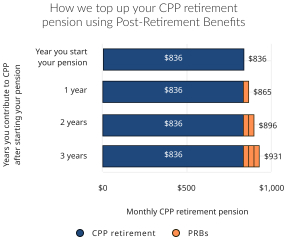
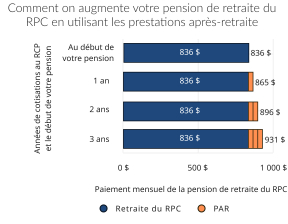
french translation and some structural changes

diff --git a/frontend/src/pages/learn/main-sources-of-retirement-income.tsx b/frontend/src/pages/learn/main-sources-of-retirement-income.tsx
@@ -31,22 +31,22 @@ const MainSourcesOfRetirementIncome: FC = () => {
   const learnMoreLinks = useMemo(
     () => [
       {
-        href: '/learn/deciding-when-to-start-your-public-pensions',
+        href: t('learn-more.when-to-start.href'),
         primary: t('learn-more.when-to-start.header'),
         secondary: t('learn-more.when-to-start.description'),
       },
       {
-        href: '/learn/going-from-work-to-retirement',
+        href: t('learn-more.going-from-work-to-retirement.href'),
         primary: t('learn-more.going-from-work-to-retirement.header'),
         secondary: t('learn-more.going-from-work-to-retirement.description'),
       },
       {
-        href: 'https://www.canada.ca/en/services/taxes/savings-and-pension-plans.html',
+        href: t('learn-more.savings-and-pension.href'),
         primary: t('learn-more.savings-and-pension.header'),
         secondary: t('learn-more.savings-and-pension.description'),
       },
       {
-        href: 'https://www.canada.ca/en/services/benefits/publicpensions/cpp/retirement-income-calculator.html',
+        href: t('learn-more.income-calculator.href'),
         primary: t('learn-more.income-calculator.header'),
         secondary: t('learn-more.income-calculator.description'),
       },
@@ -390,16 +390,12 @@ const MainSourcesOfRetirementIncome: FC = () => {
         <ul className="mb-5 list-disc space-y-2 pl-7">
           {[
             {
-              href: t('canada-pension-plan-program.cpp-post-retirement-benefit.helpful-resources.overview.link'),
-              primary: t('canada-pension-plan-program.cpp-post-retirement-benefit.helpful-resources.overview.content'),
-            },
-            {
               href: t('canada-pension-plan-program.cpp-post-retirement-benefit.helpful-resources.cpp.link'),
               primary: t('canada-pension-plan-program.cpp-post-retirement-benefit.helpful-resources.cpp.content'),
             },
             {
-              href: t('canada-pension-plan-program.cpp-post-retirement-benefit.helpful-resources.monthly.link'),
-              primary: t('canada-pension-plan-program.cpp-post-retirement-benefit.helpful-resources.monthly.content'),
+              href: t('canada-pension-plan-program.cpp-post-retirement-benefit.helpful-resources.stop-contributing.link'),
+              primary: t('canada-pension-plan-program.cpp-post-retirement-benefit.helpful-resources.stop-contributing.content'),
             },
           ].map(({ href, primary }) => (
             <li key={primary}>
